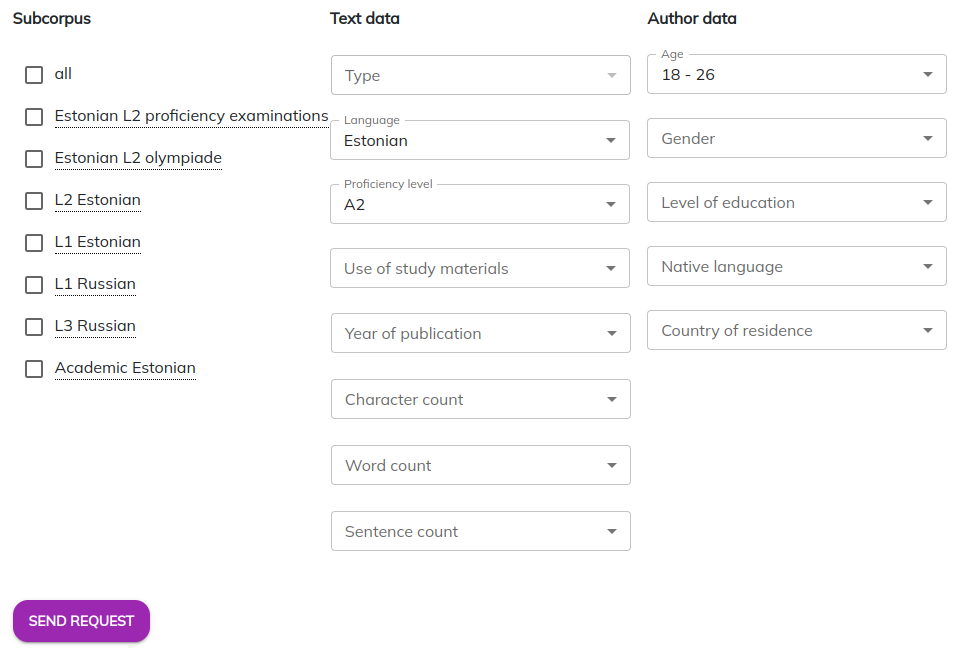
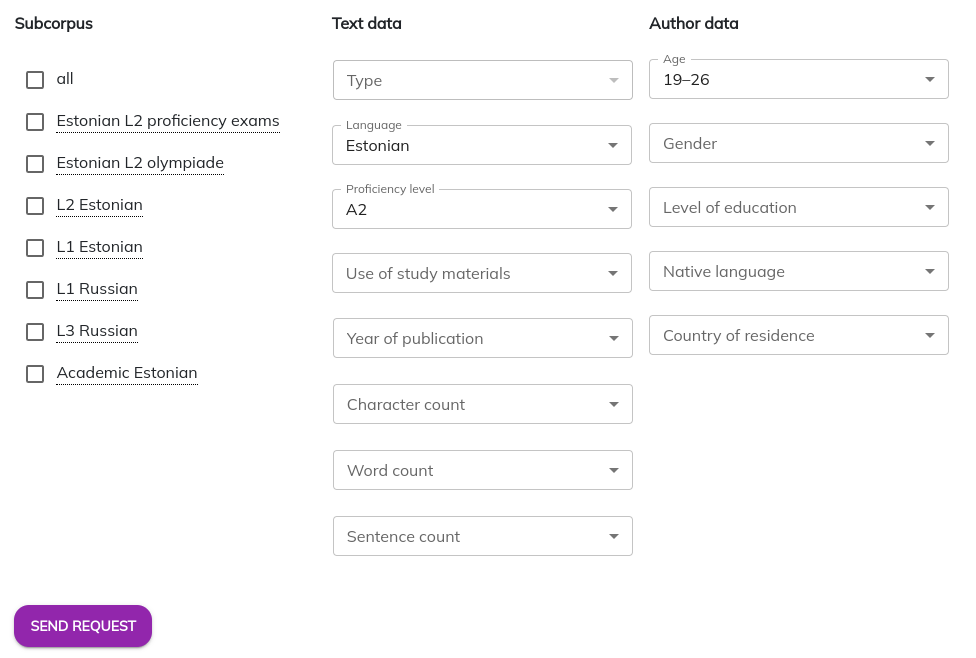
ELLE-257 | redo intro pictures, refactor styling across all tools

diff --git a/ui/src/elle/translations/en/translations.js b/ui/src/elle/translations/en/translations.js
@@ -44,7 +44,7 @@ export const TRANSLATIONS_EN = {
   common_text_data_field_of_research_health: 'Health',
   common_text_data_field_of_research_natural_sciences_and_engineering: 'Natural sciences and engineering',
   common_text_data_type_L2_olympiade_creative_writing: 'L2 olympiade creative writing',
-  common_text_data_type_L2_proficiency_examination: 'L2 proficiency examination',
+  common_text_data_type_L2_proficiency_examination: 'L2 proficiency exam',
   common_text_data_type_creative_writing: 'Creative writing',
   common_text_data_type_examination: 'Examination',
   common_text_data_type_exercise: 'Exercise',
@@ -275,8 +275,8 @@ export const TRANSLATIONS_EN = {
   query_subcorpus_L1_russian_hover: 'Includes elementary school and high school Russian-speaking students\' texts of a creative nature.',
   query_subcorpus_L2_estonian: 'L2 Estonian',
   query_subcorpus_L2_estonian_hover: 'Includes Estonian learner writings produced outside examination situations. A number of texts have received a proficiency assessment (level A1-C2) by at least two recognized specialists.',
-  query_subcorpus_L2_proficiency_examinations: 'Estonian L2 proficiency examinations',
-  query_subcorpus_L2_proficiency_examinations_hover: 'Includes writings from Estonian language proficiency examinations.',
+  query_subcorpus_L2_proficiency_examinations: 'Estonian L2 proficiency exams',
+  query_subcorpus_L2_proficiency_examinations_hover: 'Includes writings from Estonian language proficiency exams.',
   query_subcorpus_L3_russian: 'L3 Russian',
   query_subcorpus_L3_russian_hover: 'Includes texts written by native Estonian students learning Russian as their third language at school.',
   query_subcorpus_academic_estonian: 'Academic Estonian',

diff --git a/ui/src/elle/pages/Tools.js b/ui/src/elle/pages/Tools.js
@@ -20,7 +20,7 @@ const ToolIconCard = (props) => {
       className="tool-card-container"
       sx={{boxShadow: 3}}>
       <Box className="tool-card-icon">
-        <img className="tool-icon-img" src={props.image} loading="lazy" alt="Tool logo"/>
+        <img className="tool-icon-img" src={props.image} loading="lazy" alt="Tool logo" />
       </Box>
       <Box className="tool-card-text">
         {t(props.text)}
@@ -34,9 +34,14 @@ const TabOutlet = (props) => {
   return (
     <TabPanel value={props.value}>
       <Box className={props.hideBackground ? 'tools-tab-overlay' : ''}>
-        {props.textsSelected ? <Outlet/> :
+        {props.textsSelected
+          ?
+          <div className="tool-wrapper">
+            <Outlet />
+          </div>
+          :
           <Box>
-            <ToolIconCard image={props.image} text={props.text}/>
+            <ToolIconCard image={props.image} text={props.text} />
             <Alert severity="warning">
               {t('tools_warning_text')}
             </Alert>
@@ -82,7 +87,7 @@ export default function Tools() {
       <Box className="tool-page-container-outer">
         <Box className="outer-outer">
           <Query queryOpen={queryOpen}
-                 setHideBackground={setHideBackground}/>
+                 setHideBackground={setHideBackground} />
         </Box>
         <Box className="tools-box-right">
           <TabContext value={tabPage} className="tab-context-class">

diff --git a/ui/src/elle/tools/ClusterFinder.js b/ui/src/elle/tools/ClusterFinder.js
@@ -1,15 +1,15 @@
 import React from 'react';
-import IntegrationFrame from "../components/IntegrationFrame";
-import {Box} from "@mui/material";
+import IntegrationFrame from '../components/IntegrationFrame';
+import { Box } from '@mui/material';
 
 export default function ClusterFinder() {
 
   return (
-    <Box style={{marginTop: "5vh", width: window.innerWidth / 1.8}}>
-      <IntegrationFrame integrationName={'clusterFinder'}/>
+    <Box style={{width: window.innerWidth / 1.8}}>
+      <IntegrationFrame integrationName={'clusterFinder'} />
     </Box>
 
-  )
+  );
 
 }
 

diff --git a/ui/src/elle/tools/wordanalyser/WordAnalyserParent.js b/ui/src/elle/tools/wordanalyser/WordAnalyserParent.js
@@ -60,7 +60,7 @@ export default function WordAnalyserParent() {
   const [tabValue, setTabValue] = useState(0);
 
   return (
-    <div style={{marginTop: '5vh'}}>
+    <>
       <SetWordContext.Provider value={setWordValue}>
         <WordContext.Provider value={wordValue}>
           <FormContext.Provider value={formValue}>
@@ -138,6 +138,6 @@ export default function WordAnalyserParent() {
           </FormContext.Provider>
         </WordContext.Provider>
       </SetWordContext.Provider>
-    </div>
+    </>
   );
 }

diff --git a/ui/src/elle/tools/collocates/Collocates.js b/ui/src/elle/tools/collocates/Collocates.js
@@ -226,7 +226,7 @@ export default function Collocates() {
   };
 
   return (
-    <div className="tool-wrapper">
+    <>
       <h2 className="tool-title">{t('common_neighbouring_words')}</h2>
       <Accordion sx={AccordionStyle}
                  expanded={paramsExpanded}
@@ -382,6 +382,6 @@ export default function Collocates() {
       </>}
       {showNoResultsError &&
         <Alert severity="error">{t('error_no_matching_keywords')}</Alert>}
-    </div>
+    </>
   );
 }

diff --git a/ui/src/elle/tools/wordcontext/WordContext.js b/ui/src/elle/tools/wordcontext/WordContext.js
@@ -221,7 +221,7 @@ export default function WordContext() {
   };
 
   return (
-    <div className="tool-wrapper">
+    <>
       <h2 className="tool-title">{t('common_word_in_context')}</h2>
       <Accordion sx={AccordionStyle}
                  expanded={paramsExpanded}
@@ -362,6 +362,6 @@ export default function WordContext() {
       </>}
       {showNoResultsError &&
         <Alert severity="error">{t('error_no_matching_keywords')}</Alert>}
-    </div>
+    </>
   );
 }

diff --git a/ui/src/elle/tools/wordlist/Wordlist.js b/ui/src/elle/tools/wordlist/Wordlist.js
@@ -195,7 +195,7 @@ export default function Wordlist() {
   };
 
   return (
-    <div className="tool-wrapper">
+    <>
       <h2 className="tool-title">{t('common_wordlist')}</h2>
       <Accordion sx={AccordionStyle}
                  expanded={paramsExpanded}
@@ -316,6 +316,6 @@ export default function Wordlist() {
                       data={data}
                       sortByColAccessor={sortByColAccessor} />
       </>}
-    </div>
+    </>
   );
 }

diff --git a/ui/src/elle/tools/wordlist/Wordlist.css b/ui/src/elle/tools/wordlist/Wordlist.css
@@ -1,12 +1,3 @@
-.tool-wrapper {
-  margin-top: 5vh;
-}
-
-.tool-title {
-  text-align: center;
-  padding-bottom: 2vh;
-}
-
 .wordlist-analyse-button {
   margin-top: 3vh !important;
 }

diff --git a/ui/src/elle/pages/styles/Tools.css b/ui/src/elle/pages/styles/Tools.css
@@ -94,3 +94,13 @@
 .tool-icon-img {
   height: 80%;
 }
+
+.tool-title {
+  text-align: center;
+  padding-bottom: 2vh;
+}
+
+.tool-wrapper {
+  margin-top: 5vh;
+  min-width: 70rem;
+}

diff --git a/core/src/main/java/ee/tlu/evkk/core/service/maps/TeiMappings.java b/core/src/main/java/ee/tlu/evkk/core/service/maps/TeiMappings.java
@@ -87,7 +87,7 @@ public class TeiMappings {
     languageCode.put("hiina", "cn");
 
     corpus.put("cFqPphvYi", "Estonian L2 olympiade");
-    corpus.put("clWmOIrLa", "Estonian L2 proficiency examinations");
+    corpus.put("clWmOIrLa", "Estonian L2 proficiency exams");
     corpus.put("cFOoRQekA", "L2 Estonian");
     corpus.put("cYDRkpymb", "L1 Estonian");
     corpus.put("cgSRJPKTr", "L1 Russian");
